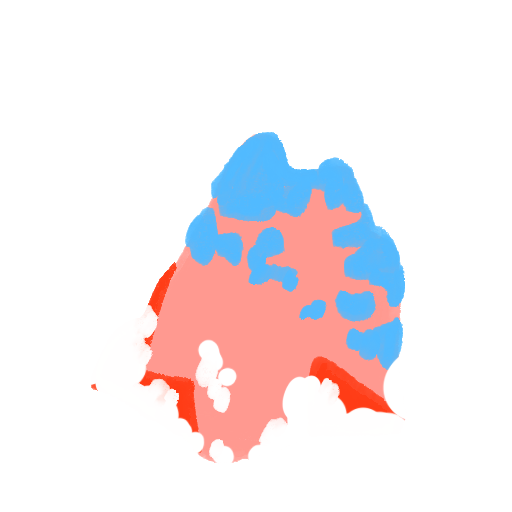
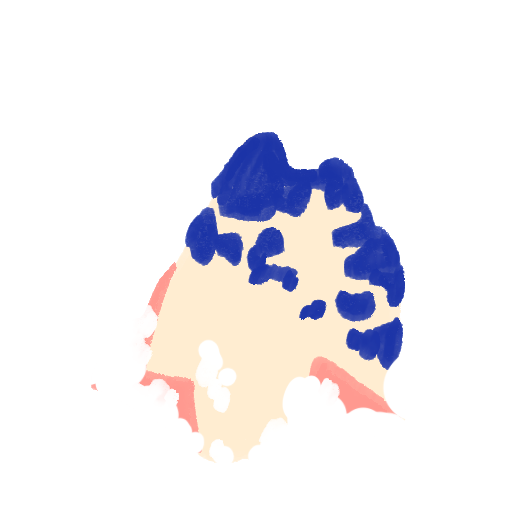
feat: final

Changed region(s): [[0.2812, 0.25, 0.8125, 0.9062], [0.1562, 0.75, 0.1875, 0.7812]]

diff --git a/assets/js/game.js b/assets/js/game.js
@@ -36,6 +36,16 @@ gameImages.stampMarks.forEach((image, index) => {
   image.src = stampMarkSources[index];
 });
 
+gameImages.islandFrames.forEach((image, index) => {
+  image.addEventListener("load", () => {
+    gameImages.islandFrames[index] = createTransparentIslandImage(image);
+  });
+
+  if (image.complete && image.naturalWidth > 0) {
+    gameImages.islandFrames[index] = createTransparentIslandImage(image);
+  }
+});
+
 const scoreText = document.getElementById("scoreText");
 const levelText = document.getElementById("levelText");
 const bestText = document.getElementById("bestText");
@@ -284,6 +294,15 @@ function ellipsesOverlap(a, b) {
   return (dx * dx) / (rx * rx) + (dy * dy) / (ry * ry) <= 1;
 }
 
+function getIsleHitbox(isle) {
+  return {
+    x: isle.x + isle.w * 0.15,
+    y: isle.y + isle.h * 0.20,
+    w: isle.w * 0.70,
+    h: isle.h * 0.62,
+  };
+}
+
 
 function getPlayerBounds() {
   return {
@@ -352,7 +371,7 @@ function updateIsles() {
   for (let i = game.isles.length - 1; i >= 0; i -= 1) {
     const isle = game.isles[i];
 
-    if (!isle.hit && player.invincible === 0 && ellipsesOverlap(player, isle)) {
+    if (!isle.hit && player.invincible === 0 && ellipsesOverlap(player, getIsleHitbox(isle))) {
       isle.hit = true;
       game.life -= 1;
       player.invincible = 80;
@@ -480,11 +499,13 @@ function drawCoverImage(image, x, y, width, height) {
 }
 
 function drawContainImage(image, x, y, width, height, rotation = 0) {
-  if (!image.complete || image.naturalWidth === 0) return false;
+  const imageWidth = image.naturalWidth || image.width || 0;
+  const imageHeight = image.naturalHeight || image.height || 0;
+  if (!image || image.complete === false || imageWidth === 0 || imageHeight === 0) return false;
 
-  const scale = Math.min(width / image.naturalWidth, height / image.naturalHeight);
-  const drawW = image.naturalWidth * scale;
-  const drawH = image.naturalHeight * scale;
+  const scale = Math.min(width / imageWidth, height / imageHeight);
+  const drawW = imageWidth * scale;
+  const drawH = imageHeight * scale;
 
   ctx.save();
   ctx.translate(x + width / 2, y + height / 2);
@@ -493,6 +514,31 @@ function drawContainImage(image, x, y, width, height, rotation = 0) {
   ctx.restore();
 
   return true;
+}
+
+function createTransparentIslandImage(image) {
+  const offscreen = document.createElement("canvas");
+  offscreen.width = image.naturalWidth;
+  offscreen.height = image.naturalHeight;
+
+  const offscreenCtx = offscreen.getContext("2d");
+  offscreenCtx.drawImage(image, 0, 0);
+
+  const imageData = offscreenCtx.getImageData(0, 0, offscreen.width, offscreen.height);
+  const { data } = imageData;
+
+  for (let i = 0; i < data.length; i += 4) {
+    const red = data[i];
+    const green = data[i + 1];
+    const blue = data[i + 2];
+
+    if (red < 38 && green < 38 && blue < 38) {
+      data[i + 3] = 0;
+    }
+  }
+
+  offscreenCtx.putImageData(imageData, 0, 0);
+  return offscreen;
 }
 
 function drawBackground() {
@@ -571,6 +617,7 @@ function drawStamp(stamp) {
   ctx.save();
 
   const rotation = stamp.rotation || 0;
+  const markImage = gameImages.stampMarks[(stamp.num - 1) % gameImages.stampMarks.length];
 
   const baseDrawn = drawContainImage(
     gameImages.stampBase,
@@ -580,6 +627,17 @@ function drawStamp(stamp) {
     stamp.h,
     rotation
   );
+
+  if (baseDrawn) {
+    drawContainImage(
+      markImage,
+      stamp.x + stamp.w * 0.25,
+      stamp.y + stamp.h * 0.25,
+      stamp.w * 0.50,
+      stamp.h * 0.50,
+      rotation
+    );
+  }
 
   if (!baseDrawn) {
     const r = stamp.w / 2;

diff --git a/assets/css/checklist.css b/assets/css/checklist.css
@@ -233,7 +233,7 @@ h1, h2, h3, p {
 
 .theme-btn::after {
   z-index: 0;
-  background: linear-gradient(120deg, rgba(0, 37, 170, 0.78), rgba(0, 113, 255, 0.34) 58%, rgba(255, 236, 209, 0.18));
+  background: transparent;
   transition: background 0.24s ease;
 }
 
@@ -267,7 +267,7 @@ h1, h2, h3, p {
 }
 
 .theme-btn.is-selected::after {
-  background: linear-gradient(120deg, rgba(0, 37, 170, 0.66), rgba(1, 188, 255, 0.24) 62%, rgba(255, 236, 209, 0.20));
+  background: transparent;
 }
 
 .mode-icon {
@@ -299,16 +299,14 @@ h1, h2, h3, p {
 
 .theme-btn strong {
   margin-bottom: 8px;
-  color: #ffffff;
+  color: var(--navy);
   font-size: 1.28rem;
-  text-shadow: 0 2px 10px rgba(0, 37, 170, 0.32);
 }
 
 .theme-btn em {
-  color: rgba(255, 255, 255, 0.88);
+  color: var(--navy);
   font-style: normal;
   font-weight: 800;
-  text-shadow: 0 2px 10px rgba(0, 37, 170, 0.24);
 }
 
 .check-panel {